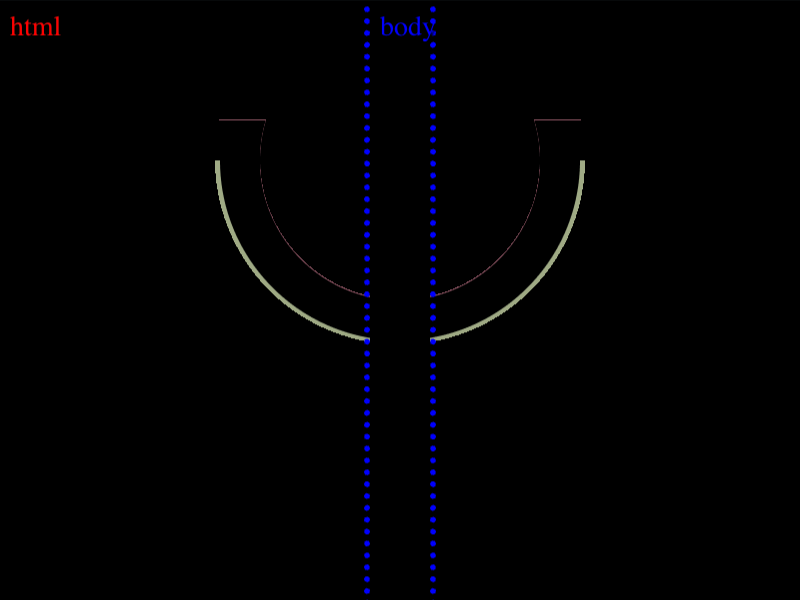
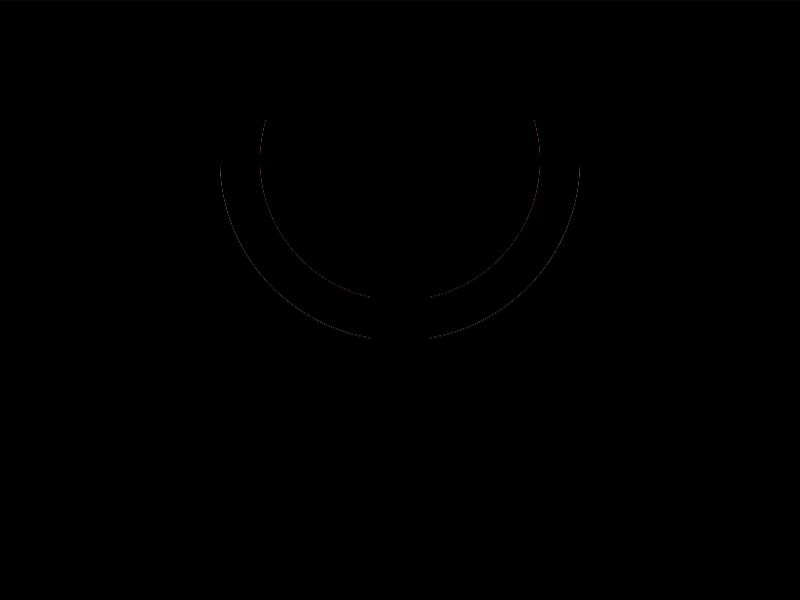
Score: 648.21, Characters: 222 (100.00% match) - CSSHub

diff --git a/Daily Targets/2026-07-28/README.md b/Daily Targets/2026-07-28/README.md
@@ -22,24 +22,37 @@ Challenge: <https://cssbattle.dev/play/LtfUvFd3HF61ZOGlL9Q9>
 ## Code
 
 ```html
-<style>&{*{background:#4a9a86;margin:0 185}background:radial-gradient(1q at 50%5vw,#4a9a86 74q,#ebf6f0 0 5lh,#0000)0 63q,conic-gradient(at 25vw 20%,#4a9a86 25%,#0000 0)0/75%,0/80%conic-gradient(at 25%5pc,#ebf6f0 25%,#4c4c6b 0
+<p><h5><style>&{background:#4c4c6b;*{background:#4a9a86}>*{border:20px solid#ebf6f0;margin:-20 80;height:60;*{height:180;margin:-80%85}p{margin:60-20;background:radial-gradient(1Q at 50%5vw,#4a9a86 74Q,#ebf6f0 0 90px,#0000
 ```
 
 ## Prettified code
 
 ```html
+<p><h5>
 <style>
 & {
+  background: #4c4c6b;
   * {
     background: #4a9a86;
-    margin: 0 185;
   }
-  background:
-    radial-gradient(1Q at 50% 5vw, #4a9a86 74Q, #ebf6f0 0 5lh, transparent) 0
-      63Q,
-    conic-gradient(at 25vw 20%, #4a9a86 25%, transparent 0) 0 / 75%,
-    0 / 80% conic-gradient(at 25% 5pc, #ebf6f0 25%, #4c4c6b 0);
+  > * {
+    border: 20px solid #ebf6f0;
+    margin: -20 80;
+    height: 60;
+    * {
+      height: 180;
+      margin: -80% 85;
+    }
+    p {
+      margin: 60 -20;
+      background: radial-gradient(
+        1Q at 50% 5vw,
+        #4a9a86 74Q,
+        #ebf6f0 0 90px,
+        transparent
+      );
+    }
+  }
 }
-
 </style>
 ```

diff --git a/README.md b/README.md
@@ -47,7 +47,7 @@ Note - I have not yet complete all the challenges.
 <ul>
 <li><a href="./Daily%20Targets/2026-07-26/">Jul 26, 2026</a> (101 Characters)</li>
 <li><a href="./Daily%20Targets/2026-07-27/">Jul 27, 2026</a> (203 Characters)</li>
-<li><a href="./Daily%20Targets/2026-07-28/">Jul 28, 2026</a> (225 Characters)</li>
+<li><a href="./Daily%20Targets/2026-07-28/">Jul 28, 2026</a> (222 Characters)</li>
 </ul>
 </details>
 </li>
